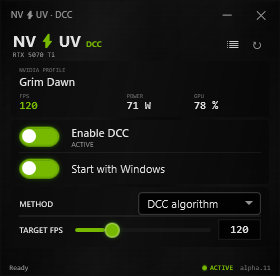
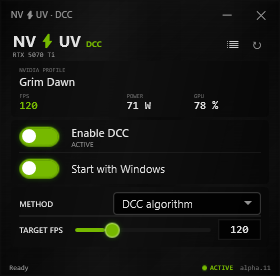
Clarify DCC modes and clean test setup

Changed region(s): [[0.4, 0.6957, 0.8, 0.7826], [0.8571, 0.7246, 0.9143, 0.7536]]

diff --git a/README.md b/README.md
@@ -2,11 +2,9 @@
 
 **Dynamic Clock Capping for NVIDIA GeForce GPUs.**
 
-> UV makes every MHz cheaper. DCC removes the MHz your game does not need.
-
 This repository currently hosts the experimental **0.1.0-alpha.11 binary-only
-Community Preview**. The public source code and normal repository development
-are planned for the following week under MPL-2.0. DCC is also planned as an
+Community Preview**. The source code and normal repository development are
+planned for the following week under MPL-2.0. DCC is also planned as an
 integrated feature in the next NV-UV release.
 
 ![DCC by NV-UV alpha.11 Mini View](assets/dcc-alpha11.png)
@@ -23,14 +21,35 @@ later re-tests lower bins cautiously.
 - game matching from profiles installed with the NVIDIA driver;
 - own Windows ETW FPS collector without overlay or DLL injection;
 - targets from 30 to 400 FPS;
-- learning `DCC algorithm` and optional experimental `NVIDIA driver` method;
+- learning `DCC algorithm` and optional `NVIDIA Ultra Efficiency` method;
 - restoration of DCC-owned clock and frame-limiter changes;
 - activation history, learned profiles, diagnostics, tray, and emergency reset;
 - no RTSS, MSI Afterburner, MAHM, cloud service, or AI model required.
 
-DCC is not undervolting and does not edit the V/F curve. An existing stable UV
-profile may complement it, but another program must not change GPU clock
-controls while DCC is active.
+DCC is not undervolting and does not edit the V/F curve.
+
+## Two clearly different methods
+
+- **DCC algorithm** is NV-UV's own adaptive controller. It learns the lowest
+  sufficient clock, restores performance quickly for heavier scenes, and later
+  re-tests lower clocks cautiously.
+- **NVIDIA Ultra Efficiency** calls NVIDIA's internal, undocumented
+  JPAC/Max-Perf-per-Watt algorithm while DCC supplies the target FPS and per-game
+  frame limit. “Ultra Efficiency” is DCC's descriptive UI name, not an official
+  NVIDIA product name. Driver support is not guaranteed.
+
+## Best use cases and clean testing
+
+DCC is most useful when a game has substantial unused GPU performance at the
+chosen FPS target: older or lightweight games, indie titles, ARPGs, strategy
+games, emulators, capped esports titles, and CPU-limited games. A fully
+GPU-bound game that barely reaches its target has little headroom to remove.
+
+For the first test, reset UV/OC to stock and fully close **MSI Afterburner** or
+any other utility that can change clocks, voltage, V/F curves, or power limits.
+**RTSS may remain running**; DCC does not use its FPS hook. Avoid a competing
+RTSS frame limit so only one limiter controls the comparison. Once a stock run
+works, experienced users may separately re-test a known-stable UV profile.
 
 ## Download the alpha
 

diff --git a/PREVIEW-NOTES-0.1.0-alpha.11.md b/PREVIEW-NOTES-0.1.0-alpha.11.md
@@ -10,7 +10,8 @@ Experimental binary-only Community Preview for NVIDIA GeForce GPUs.
 - game matching against locally installed NVIDIA driver profiles;
 - own ETW FPS collector without overlay injection or RTSS;
 - target range from 30 to 400 FPS;
-- learning DCC algorithm and optional experimental NVIDIA-driver method;
+- learning DCC algorithm and optional NVIDIA Ultra Efficiency method using the
+  driver's internal JPAC/Max-Perf-per-Watt control;
 - per-game NVIDIA frame limit with restoration of its previous value;
 - activation history, learned profiles, diagnostics, tray, and emergency reset;
 - self-contained portable Windows x64 executables.
@@ -19,10 +20,14 @@ Experimental binary-only Community Preview for NVIDIA GeForce GPUs.
 
 - Hardware and driver support is determined at runtime.
 - The NVIDIA-driver method uses an undocumented interface.
+- For the first clean test, reset UV/OC and fully close MSI Afterburner or other
+  GPU clock-control tools. RTSS may remain running without a competing limiter.
+- DCC is primarily useful for light, older, capped, or CPU-limited games with
+  unused GPU headroom; a fully GPU-bound game offers little room to save power.
 - A running game may need to be restarted after changing its driver frame limit.
 - The first community preview has only been hardware-tested on an RTX 5070 Ti.
 - The included Grim Dawn numbers are observed ranges, not a standardized
   benchmark.
 
-The public MPL-2.0 source repository will follow next week, and DCC is planned
-as an integrated feature in the next NV-UV release.
+The source code will be added to the public repository next week under MPL-2.0,
+and DCC is planned as an integrated feature in the next NV-UV release.

diff --git a/GRIM-DAWN-RTX5070TI-ALPHA11-TEST.md b/GRIM-DAWN-RTX5070TI-ALPHA11-TEST.md
@@ -25,10 +25,12 @@ power range was roughly 16–25% below the comparison range while preserving the
 
 ## Interpretation
 
-DCC is not another undervolting method. The existing UV profile can make each
-clock step cheaper; DCC attempts to remove clock headroom that the current game
-does not need. In this test Grim Dawn still met its FPS target at roughly half
-the previously observed GPU clock.
+DCC is not another undervolting method. This particular proof-of-concept run
+used an existing Eco/UV profile, but new alpha testers should establish their
+first baseline at stock settings with MSI Afterburner fully closed. That avoids
+two clock-control systems influencing the result. RTSS may remain running as
+long as it is not applying a competing frame limit. In this test Grim Dawn still
+met its FPS target at roughly half the previously observed GPU clock.
 
 The RTX 5090 may show a larger absolute reduction because it has considerably
 more unused performance in light games, but that is a hypothesis until users
